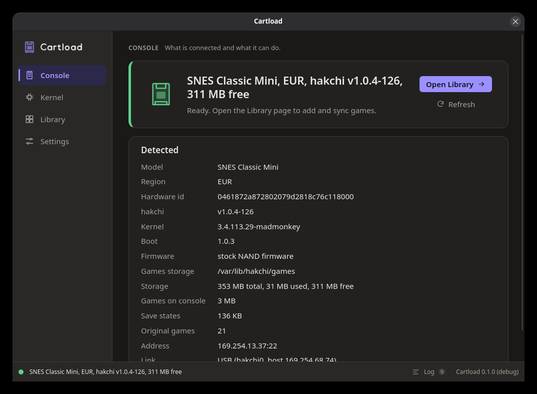
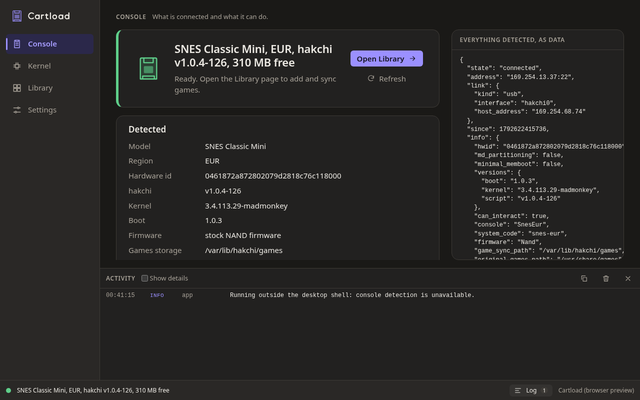
docs: layout checklist, screenshot switches, refreshed screenshots and the task 14 report

Changed region(s): [[0.0, 0.0, 1.0, 1.0], [0.149, 0.731, 0.2086, 0.7614]]

diff --git a/.agent/reports/14-layout.md b/.agent/reports/14-layout.md
@@ -1,0 +1,99 @@
+# Report: 14-layout
+
+All five items are done, each in its own commit, plus a docs commit.
+
+## What was done
+
+1. **App shell** (`5d0e642`). `main` is `overflow: hidden`; the sidebar, page header, status
+   bar and log panel are fixed and the keyed page wrapper is the only flexible region. Each
+   page declares its scroll regions. The log panel is `flex: none` with a height of
+   `clamp(144px, 28vh, 224px)` so it shrinks the content area and never pushes it off screen.
+   `?log=open|closed` forces the panel for previews (unstored, like `?theme=`).
+
+2. **Library** (`28fbc5f`). Columns `minmax(240px, 13vw) / 1fr / minmax(340px, 20vw)`, all
+   full height, only the tree, the grid viewport and the detail panel's inner scroll move.
+   The cover no longer collapses to 0 px in a short panel (`flex: none`). The description is
+   a three-line read-only preview (one button: the whole block, with an "Edit" tag in its
+   corner) that opens a dialog with a 14-row textarea, Save and Cancel; "Advanced…" opens the
+   launch command, arguments, compression, the command preview and the facts in a second
+   dialog. Save writes the draft into the form and saves the game; Cancel, Escape, the close
+   button and a backdrop click drop it. `Dialog.svelte` is a thin wrapper on the native
+   `<dialog>` (`showModal()`): focus trap, inert page and focus restore come from the browser;
+   `data-autofocus` names the control that takes focus; a `cancel` event closes through the
+   `open` prop so state and element never disagree. `docs/design.md` principle 3 now names
+   editors as the one dialog exception. The sync bar's Changes block explains N ("7 changes:
+   3 files to upload (6.0 MB), 2 files to remove, 1 link to reset, 1 empty folder to remove"),
+   a "Show changes" button opens a dialog listing the paths (uploads with sizes; removals
+   tagged file / link / folder) with the sync button at its foot, and when files or links are
+   to be removed one sentence says that a console synced by hakchi2 CE has its files replaced
+   by this library. The review panel reuses the same lists through a snippet. The bar row
+   wraps at narrow widths so the explanation reads as a line, not a stack of words. Preview
+   switches: `?select=N`, `?dialog=description|advanced|changes`.
+
+3. **Kernel** (`5b0ced9`). From 1100 px: a grid with the stage cards (FEL, package, install)
+   on the left and, on the right, a "progress" card holding the step list (scrolls) and the
+   run log (`FlowLog grow` fills the remaining height and scrolls) above the stage 4 card.
+   The left column scrolls on its own. Below 1100 px everything stacks in one scrolling
+   region; the page itself never scrolls. The FEL illustration stacks above its steps when
+   the stage card is narrow (narrow windows and two-column windows under 1500 px). Stage 4 is
+   compact: outcome heading and sentence, the console's one-line summary (`report.title`
+   with its tone dot) and the elapsed time, and Open Console / Open Library (the primary one
+   is the next step: Library after an install that left the console connected). `StatusCard`
+   and `DetailsList` are no longer imported by the Kernel page.
+
+4. **Console** (`d84ff89`). From 1100 px: status card, Detected table and the development
+   command card in a scrolling left column; "Everything detected, as data" is a card on the
+   right (`minmax(340px, 34%)`) whose `<pre>` scrolls inside the column. Below 1100 px one
+   scrolling column with the data in a 320 px box. The data is no longer behind a disclosure.
+
+5. **Settings** (`11acb49`). From 1100 px: the settings cards on the left, the About card on
+   the right, each column `overflow: auto`. Below, one scrolling column as before.
+
+Docs: `docs/hardware-tests.md` "Window and polish" has a section 4 (layout) checklist and a
+results row for this run; `docs/screenshots.md` documents the new preview switches and the
+Vite restart; the seven `docs/screenshots/*.png` were regenerated from the new layout at
+1280 × 800, half scale.
+
+## Verified
+
+- `pnpm check`: 0 errors, 0 warnings after every item. `cargo clippy --workspace
+  --all-targets -- -D warnings` and `cargo test --workspace`: clean (no Rust changed).
+- Headless Chrome on the preview fixtures, every page at 900 × 600, 1280 × 800 and
+  1990 × 1017, log open and closed (24 combinations) measured through the DevTools protocol:
+  the document and the page area never overflow in either axis; the only scrolling elements
+  are the tree, the grid viewport, the detail panel, the Kernel columns / step list / log, the
+  Console column and data panel, the Settings columns. Screenshots of the same set in light
+  and dark, read at reduced scale as montages: no clipped content, the sync bar and dialogs
+  as described.
+- Dialog focus path by script: clicking the description preview opens the dialog with focus in
+  the textarea, the page behind is inert, a `cancel` event closes it and focus is back on the
+  preview.
+- The real WebKitGTK window (`GDK_BACKEND=x11 pnpm tauri dev --no-watch`, captured with
+  `import -window Cartload` at 2560 × 1051, maximised by the window-state plugin) with the
+  SNES Classic Mini attached and identified, read only: the Console page renders the two
+  columns, the data panel ends at the window's bottom and scrolls inside itself, the status
+  bar stays put. Only the Console page could be reached (no input tool).
+- Stale Vite: twice a component's old CSS was served after an edit (the HMR updated the
+  module but a fresh load still got the old style module). Restarting `pnpm dev` fixed it;
+  noted in `docs/screenshots.md`.
+
+## Decisions
+
+- Dialogs are the native `<dialog>` rather than a hand-made trap: fewer lines, and the trap,
+  inert page and focus restore are the browser's. WebKitGTK has supported it since 2.36.
+- The dialog's Save saves the game (not only the form): "Save" should mean saved, and the
+  panel's own Save/Revert row still covers the inline fields.
+- The sync "Show changes" is a dialog, not a disclosure in the bar: the bar is the one place
+  that must stay short, and the review panel already is the inline listing.
+- The Kernel result keeps `report.title` as the summary; the Console page has the table.
+- The two-column threshold is 1100 px for all three pages, as the brief suggests; the Library
+  keeps its own 1024 px sidebar breakpoint.
+
+## Left or uncertain
+
+- Not driven in the real WebKitGTK window: the keyboard paths through the dialogs and the live
+  step list and log during a run (no input tool on this host; listed in the checklist).
+- At the 900 × 600 minimum with the log open the Library columns are about 110 px tall and the
+  grid shows one row: nothing is cut, but that size is a floor, not a working size.
+- At 900 px wide the grid gets about 170 px (one tile column) because the tree and the detail
+  panel take their minimums as the brief asks.

diff --git a/docs/hardware-tests.md b/docs/hardware-tests.md
@@ -829,8 +829,39 @@ needed; they can run with one attached, nothing is written to it.
    move, Escape closes and returns focus to the button.
 5. Every icon button announces a name (check with Orca or the Accessibility Inspector).
 
+### 4. Layout: panels scroll, the page never does
+
+Do each step at 900 × 600, at about 1280 × 800 and with the window filling the screen, with
+the activity log (Ctrl+L) closed and then open. The sidebar, the page header, the status bar
+and the log never move; the log shrinks the page area; nothing is cut off, and the only
+scrollbars are the ones listed.
+
+1. Console: on a wide window the status card and the Detected table are on the left (that
+   column scrolls when the table is long) and "Everything detected, as data" is a panel on
+   the right that scrolls inside itself. Under about 1100 px wide they stack in one scrolling
+   column and the data sits in a 320 px box.
+2. Kernel: on a wide window the three stage cards are on the left and the step list, the run
+   log and the result on the right; start a memboot and watch the step list and the log scroll
+   inside their column while the page stays put. Under about 1100 px they stack in one
+   scrolling column. After a run the result card shows the outcome, the console's one-line
+   summary with the elapsed time, and Open Console / Open Library.
+3. Library: the folder tree, the grid and the detail panel are full height and only their
+   lists scroll. The tree is at least 240 px wide ("Console menu" and "More games..." are not
+   cut), the detail panel at least 340 px. Select a game: the description shows three
+   read-only lines; click it (or press Enter on it) to open the editor; type, press Escape:
+   the dialog closes, nothing is saved and focus is back on the preview. Open it again, Tab:
+   focus stays inside the dialog. Save stores the text. "Advanced…" opens the launch command,
+   arguments, compression and the facts in the same kind of dialog.
+4. Library sync bar: the Changes block explains the count ("7 changes: 3 files to upload
+   (6.0 MB), 2 files to remove, 1 link to reset, 1 empty folder to remove"); "Show changes"
+   lists the paths in a dialog; when files are to be removed the bar says that a console
+   synced by hakchi2 CE has its files replaced.
+5. Settings: on a wide window the settings cards are on the left and the About card on the
+   right, each column scrolling on its own; the About card is never cut off.
+
 ### Results
 
 | Date | Build | Platform | Result | Notes |
 | --- | --- | --- | --- | --- |
 | 2026-10-21 | 33242c5+task 11, debug | Arch, GNOME 51 Wayland, WebKitGTK | partial | Native Wayland start without `GDK_BACKEND`: no DMA-BUF protocol error, console identified in 2.5 s (the app sets the variable itself). Window state, motion and keyboard checks not driven by hand (no input tool); layout at 900 × 600 checked in the browser preview only. |
+| 2026-10-22 | 11acb49+task 14, preview | Arch, headless Chrome on the preview fixtures | partial | Section 4 checked in the browser preview: every page at 900 × 600, 1280 × 800 and 1990 × 1017, log open and closed (24 combinations measured: the document and the page area never overflow; the only scrolling elements are the listed lists, columns and panels), light and dark. Dialog focus path checked by script: focus lands in the editor, the page behind is inert, cancel closes and returns focus to the preview. Real WebKitGTK window (XWayland capture, 2560 × 1051, SNES Classic Mini attached, read only): the Console page's two columns render, the data panel scrolls inside itself. Not driven in the window: the other pages, the keyboard paths and the live step list and log during a run. |

diff --git a/docs/screenshots.md b/docs/screenshots.md
@@ -75,7 +75,7 @@ pass is checked in CI-like conditions. Headless Chrome captures them:
 
 ```sh
 pnpm dev --port 1420 &
-google-chrome --headless=new --window-size=1024,700 --hide-scrollbars \
+google-chrome --headless=new --window-size=1280,800 --hide-scrollbars \
   --screenshot=docs/screenshots/library-light.png \
   "http://localhost:1420/?page=library&library=many&sync=plan&theme=light"
 ```
@@ -83,8 +83,12 @@ google-chrome --headless=new --window-size=1024,700 --hide-scrollbars \
 Fixtures: `?preview=disconnected|fel|booting|connected|stock` (Console), `?page=kernel&flow=
 idle|running|failed|done|cancelled&package=cached|none|problem`, `?page=library&library=some|
 empty|many&sync=none|plan|review|running|done|failed`, `?page=settings`. `&theme=light|dark`
-forces a theme. These are the preview fixtures, not the WebKitGTK window: fonts and form
-controls can differ slightly from the desktop app.
+forces a theme, `&log=open|closed` the activity log panel; on the Library page `&folder=4/1`
+opens a folder of the fixture (index path), `&select=N` selects its first N games (the detail
+panel) and `&dialog=description|advanced|changes` opens one of the editors. These are the
+preview fixtures, not the WebKitGTK window: fonts and form controls can differ slightly from
+the desktop app. Vite can keep serving a component's old CSS after an edit: restart `pnpm dev`
+before capturing.
 
 ## What to capture
 
